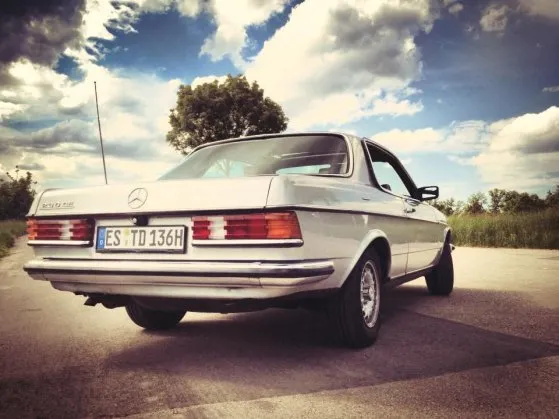
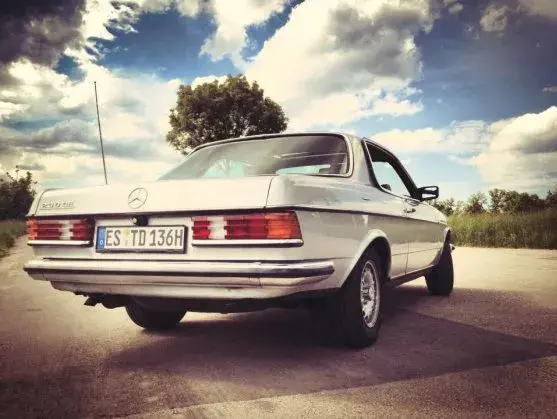
246

diff --git a/pic/ja_mb_img_ce.html b/pic/ja_mb_img_ce.html
@@ -346,7 +346,7 @@
 				<h3 class="i m0">W120</h3>
 				<p class="i m1">クーペモデル試作</p>
 				<p class="i m1">1953</p><br>
-				<a href="full/ce/w120a_f.jpg"><img loading="lazy" src="style/ce/w120a_f.webp" alt="メルセデス,W120,カブリオレ,フロント" width="986" height="580"></a>
+				<img loading="lazy" class="m06" src="style/ce/w120a_f.webp" alt="メルセデス,W120,カブリオレ,フロント" width="986" height="580">
 			</div>
 		</section>
 
@@ -399,7 +399,7 @@
 						<h4 class="displayNone">Coupe</h4>
 						<a href="full/ce/w123c_f.jpg"><img loading="lazy" src="style/ce/w123c_f.webp" alt="メルセデス,W123c,フロント" width="667" height="358"></a>
 						<a href="full/ce/w123c_d.jpg"><img loading="lazy" src="style/ce/w123c_d.webp" alt="メルセデス,W123c,ダッシュボード" width="537" height="358"></a><br>
-						<a href="full/ce/w123c_r.jpg"><img loading="lazy" src="style/ce/w123c_r.webp" alt="メルセデス,W123c,リヤ" width="559" height="419"></a>
+						<a href="full/ce/w123c_r.jpg"><img loading="lazy" src="style/ce/w123c_r.webp" alt="メルセデス,W123c,リヤ" width="557" height="419"></a>
 						<a href="full/ce/w123c_i.jpg"><img loading="lazy" src="style/ce/w123c_i.webp" alt="メルセデス,W123c,内装" width="647" height="419"></a>
 					</section>
 				</div>

diff --git a/pic/mb_img_ce.html b/pic/mb_img_ce.html
@@ -347,7 +347,7 @@
 				<h3 class="i m0">W120</h3>
 				<p class="i m1">Studie eines Ponton-Cabriolets</p>
 				<p class="i m1">1953</p><br>
-				<a href="full/ce/w120a_f.jpg"><img loading="lazy" src="style/ce/w120a_f.webp" alt="Mercedes,W120,cabriolet,Vorderansicht" width="986" height="580"></a>
+				<img loading="lazy" class="m06" src="style/ce/w120a_f.webp" alt="Mercedes,W120,cabriolet,Vorderansicht" width="986" height="580">
 			</div>
 		</section>
 
@@ -400,7 +400,7 @@
 						<h4 class="displayNone">Coupé</h4>
 						<a href="full/ce/w123c_f.jpg"><img loading="lazy" src="style/ce/w123c_f.webp" alt="Mercedes,W123c,Vorderansicht" width="667" height="358"></a>
 						<a href="full/ce/w123c_d.jpg"><img loading="lazy" src="style/ce/w123c_d.webp" alt="Mercedes,W123c,Instrumententafel" width="537" height="358"></a><br>
-						<a href="full/ce/w123c_r.jpg"><img loading="lazy" src="style/ce/w123c_r.webp" alt="Mercedes,W123c,Rückansicht" width="559" height="419"></a>
+						<a href="full/ce/w123c_r.jpg"><img loading="lazy" src="style/ce/w123c_r.webp" alt="Mercedes,W123c,Rückansicht" width="557" height="419"></a>
 						<a href="full/ce/w123c_i.jpg"><img loading="lazy" src="style/ce/w123c_i.webp" alt="Mercedes,W123c,Innenansicht" width="647" height="419"></a>
 					</section>
 				</div>

diff --git a/pic/en_mb_img_ce.html b/pic/en_mb_img_ce.html
@@ -346,7 +346,7 @@
 				<h3 class="i m0">W120</h3>
 				<p class="i m1">Study of a pontoon convertible</p>
 				<p class="i m1">1953</p><br>
-				<a href="full/ce/w120a_f.jpg"><img loading="lazy" src="style/ce/w120a_f.webp" alt="Mercedes,W120,cabriolet,Front view" width="986" height="580"></a>
+				<img loading="lazy" class="m06" src="style/ce/w120a_f.webp" alt="Mercedes,W120,cabriolet,Front view" width="986" height="580">
 			</div>
 		</section>
 
@@ -399,7 +399,7 @@
 						<h4 class="displayNone">Coupe</h4>
 						<a href="full/ce/w123c_f.jpg"><img loading="lazy" src="style/ce/w123c_f.webp" alt="Mercedes,W123c,Front view" width="667" height="358"></a>
 						<a href="full/ce/w123c_d.jpg"><img loading="lazy" src="style/ce/w123c_d.webp" alt="Mercedes,W123c,Dashboard" width="537" height="358"></a><br>
-						<a href="full/ce/w123c_r.jpg"><img loading="lazy" src="style/ce/w123c_r.webp" alt="Mercedes,W123c,Rear view" width="559" height="419"></a>
+						<a href="full/ce/w123c_r.jpg"><img loading="lazy" src="style/ce/w123c_r.webp" alt="Mercedes,W123c,Rear view" width="557" height="419"></a>
 						<a href="full/ce/w123c_i.jpg"><img loading="lazy" src="style/ce/w123c_i.webp" alt="Mercedes,W123c,Interior" width="647" height="419"></a>
 					</section>
 				</div>
